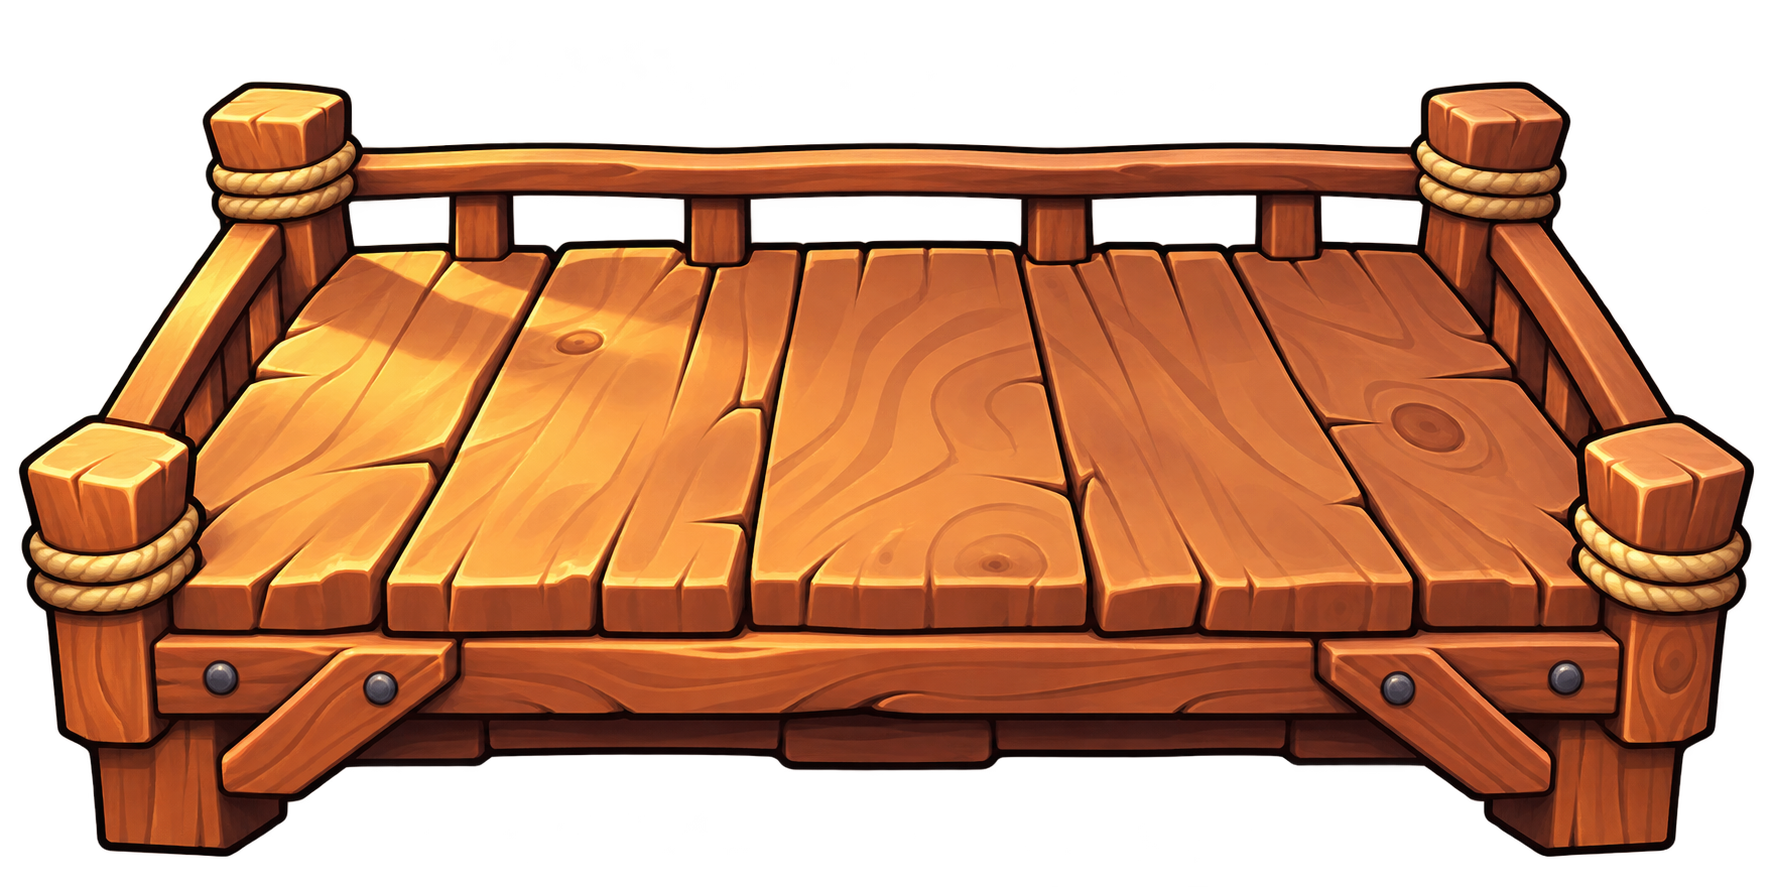
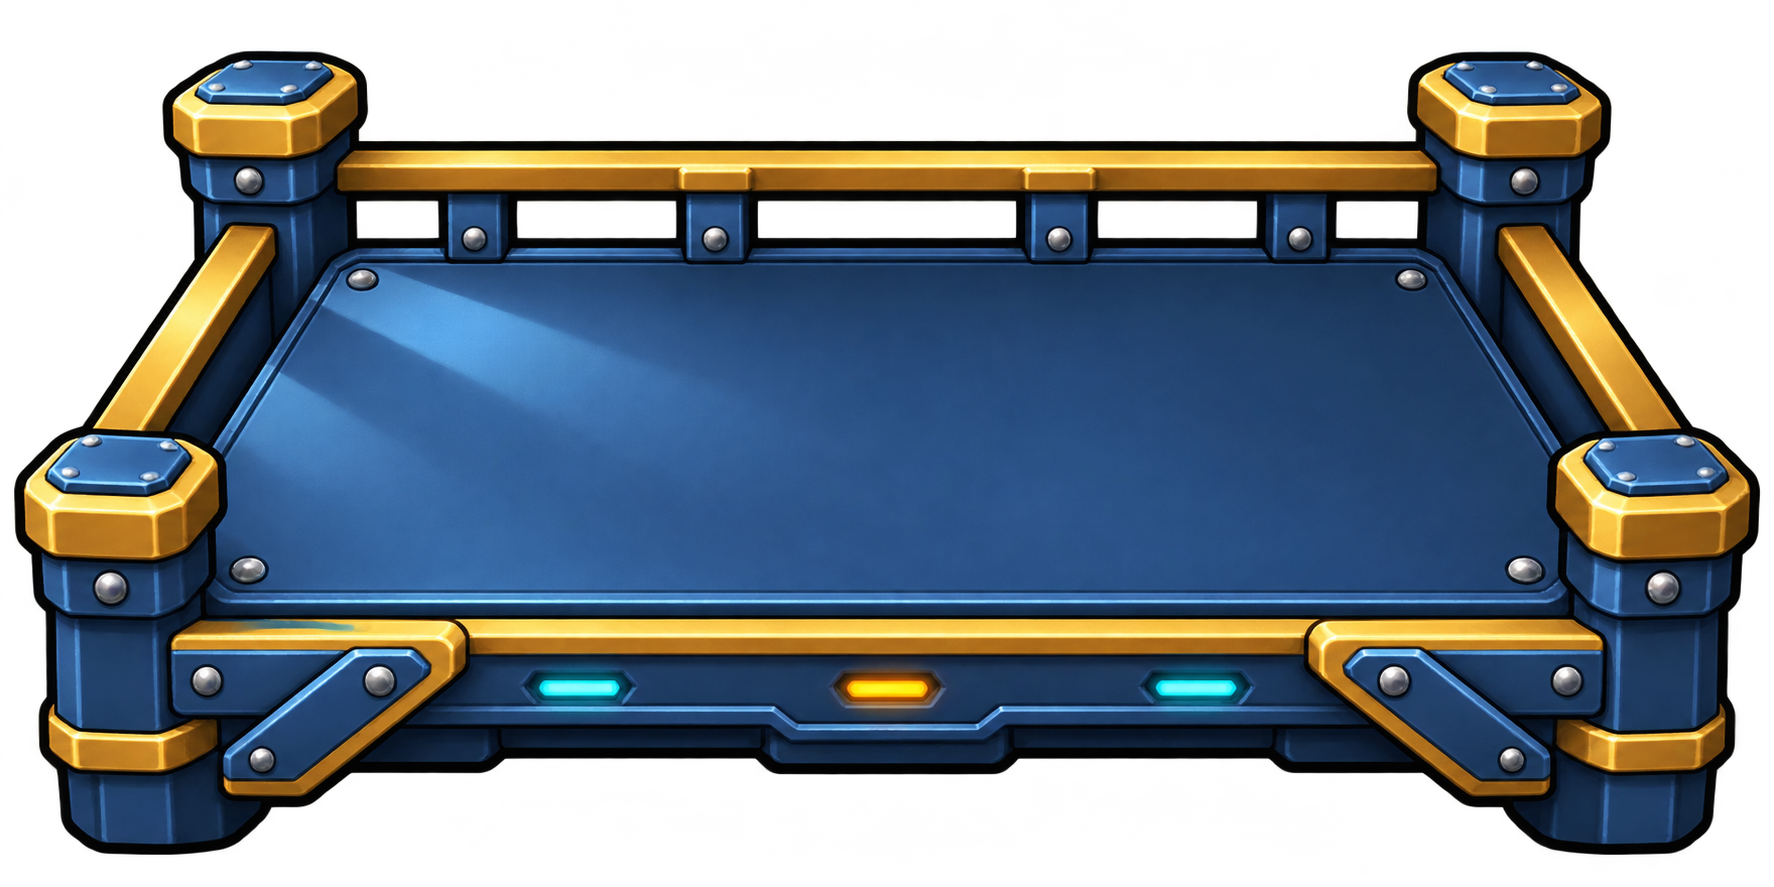
Round 54: Settings console nameplate, steel Duels dais, larger Compare parts, spec-sheet assembly spans its strip, bigger Power Rig battery; stacked charge callouts; round 54 captures and notes
Muted cyan rails in the live round scored the same in the blind check and were reverted.

diff --git a/src/styles/game-feel.css b/src/styles/game-feel.css
@@ -5144,3 +5144,54 @@
 
 /* r53 (Sol i52 #5): the unlocked part fills the rig's socket */
 .gameOverSpotlight .gameOverNextUnlockIcon > img.gameArt:not(.gameOverUnlockRig) { width: 70px !important; height: 70px !important; transform: translateY(-9px); }
+
+/* ---- r54 (Sol i53 #2): Compare mounts show their parts at readable size -- */
+.armoryCompareBench.armoryCompareWorkshop .armoryCompareRigModule > .gameArt { width: 46px !important; height: 46px !important; object-fit: contain; transform: none !important; }
+.armoryCompareBench.armoryCompareWorkshop .armoryCompareRigModule:nth-of-type(6) > .gameArt { width: 42px !important; height: 42px !important; }
+.armoryCompareBench.armoryCompareWorkshop .armoryCompareRigModule:nth-of-type(7) > .gameArt { width: 50px !important; height: 50px !important; }
+
+/* ---- r54 (Sol i53 #3): the spec-sheet assembly spans its blueprint strip -- */
+.specSheetClipboard .specSheetAssembly { height: 80px; }
+.specSheetClipboard .specSheetAssembly::before { left: calc(8% + 21px); right: calc(8% + 21px); width: auto; top: 46px; }
+.specSheetClipboard .specSheetAssembly::after { display: none; }
+.specSheetClipboard .specSheetAssemblyHub { left: calc(57% - 28px); top: 20px; width: 56px; height: 56px; line-height: 44px; }
+.specSheetClipboard .specSheetAssemblyPart { width: 42px !important; height: 42px !important; top: 25px; }
+.specSheetClipboard .specSheetAssemblyPart.slot-streakLens { left: 8%; }
+.specSheetClipboard .specSheetAssemblyPart.slot-tempoCore { left: calc(31% - 21px); top: 25px; }
+.specSheetClipboard .specSheetAssemblyPart.slot-powerRig { left: auto; right: 8%; }
+.specSheetClipboard .specSheetAssemblyPart > .gameArt { width: 34px !important; height: 34px !important; object-fit: contain; }
+.specSheetClipboard .specSheetAssembly small { top: 8px; bottom: auto; }
+
+/* r54: the narrow Power Rig battery fills more of its bench mount */
+.armoryMachine .armoryMachineRigMount.mount-powerRig > .gameArt { width: 70px !important; height: 70px !important; transform: translateY(-12px); }
+
+/* ---- r54 (Sol i53 #1): Settings header as a console nameplate ------------
+ * Generated steel-and-brass plate behind the header; a console badge (speaker
+ * grille, fader, amber lamp) sits at its left. Title and description stay live. */
+.feedbackSettingsSheet .uiDialogHeader {
+    position: relative;
+    align-items: center;
+    margin: 12px 14px 4px;
+    flex: 0 0 auto;
+    min-height: 124px;
+    box-sizing: border-box;
+    padding: 28px 28px 30px 112px;
+    border-bottom: 0;
+    background: url('/art/settings/header-plate.png') center / 100% 100% no-repeat;
+}
+.feedbackSettingsSheet .uiDialogHeader::before {
+    content: "";
+    position: absolute;
+    left: 22px;
+    top: 50%;
+    width: 70px;
+    height: 70px;
+    transform: translateY(-50%);
+    background: url('/art/settings/console-emblem.png') center / contain no-repeat;
+    filter: drop-shadow(0 3px 3px rgb(4 9 18 / 60%));
+}
+.feedbackSettingsSheet .uiDialogDescription { color: #b9c9d8; }
+@media (max-width: 640px) {
+    .feedbackSettingsSheet .uiDialogHeader { margin: 8px 8px 2px; padding: 14px 14px 14px 76px; }
+    .feedbackSettingsSheet .uiDialogHeader::before { left: 14px; width: 52px; height: 52px; }
+}

diff --git a/src/styles/social-scenery.css b/src/styles/social-scenery.css
@@ -4,7 +4,7 @@
   box-shadow: none !important;
 }
 .duelFightComposer .duelRunTokens.duelRunTokens::after { display: none !important; }
-.duelFightComposer .duelLaunchStep.duelLaunchStep { background: #322014 !important; }
+.duelFightComposer .duelLaunchStep.duelLaunchStep { background: linear-gradient(180deg, #1b2c45, #111d30) !important; }
 .shopInspectStage.shopInspectStage .shopStageAwning,
 .shopInspectStage.shopInspectStage .shopStageCounter { display: none !important; }
 .shopInspectStage.shopInspectStage::after {

diff --git a/src/features/game/components/arena-focus.css b/src/features/game/components/arena-focus.css
@@ -32,3 +32,7 @@
   background: rgb(6 12 24 / 88%);
   box-shadow: inset 0 0 0 1px rgba(var(--heat), 0.55), 0 4px 10px rgb(0 0 0 / 45%);
 }
+
+/* r54: two keys charging on the same hit stack instead of overprinting. */
+.clickFeedback.chargeGain ~ .clickFeedback.chargeGain { bottom: 38px; }
+.clickFeedback.chargeGain ~ .clickFeedback.chargeGain ~ .clickFeedback.chargeGain { bottom: 60px; }

diff --git a/docs/ui-polish/game-feel/i54-changes.md b/docs/ui-polish/game-feel/i54-changes.md
@@ -1,0 +1,20 @@
+# Round 54 changes (i53 → i54)
+
+Sol scored i53 at 9.49. This round takes four of Sol's i53 asks. Muting the cyan rails in the live round scored "same" in the blind check, so it was reverted and the live round is unchanged. A fix also stops two "KEY n CHARGED" callouts from printing over each other, though no capture shows it. Changed screens: 03, 07, 10, 16, 18. All other screens are byte-for-byte copies of i53.
+
+## 10 Settings sheet
+- **Header nameplate:** the header sits on a generated gunmetal console plate with brass bevels and corner screws, filling the sheet width and about 126px tall. The gold title ribbon and the description are printed inside its dark recessed field.
+- **Console badge:** a 70px steel badge with a brass rim sits at the plate's left. It shows a speaker grille with a sound-wave symbol, a fader and an amber lamp. The close button sits inside the plate's right end.
+
+## 16 Armory compare
+- **Mount parts:** the parts in the peripheral mounts grew from 32px to 42px (Tempo Core), 50px (Streak Lens) and 46px (Power Rig). Each outline reads separately from its mount, and the labels are unchanged.
+
+## 18 Spec sheet
+- **Assembly strip:** the parts are laid out as one chain across the whole strip instead of clustered at the left. From left to right: Streak Lens (8%), Tempo Core, the hub (56px, up from 50px) and the Power Rig (right edge, 8%). A cyan conduit runs from the lens to the rig, and each part box is 42px, up from 36px. The strip is 80px tall (from 75px), so the ranked-record stamp at the bottom stays fully visible. The ASSEMBLY label sits at the top right.
+
+## 07 Duels
+- **Stake dais:** the "Stake a run" platform is a generated arena-metal dais (blue steel deck, brass rails and trim, bolted corner posts, small cyan and amber lamps on the front edge). It replaces the rope-bound wooden pier, and the three score tokens sit on the plain deck centre.
+- **Launch strip:** the strip below the dais (taunt field and Send Duel) is dark steel blue instead of brown wood.
+
+## 03 Armory bench
+- **Power Rig battery:** the battery grew from 56px to 70px and sits 12px higher, clear of the brass plates.
